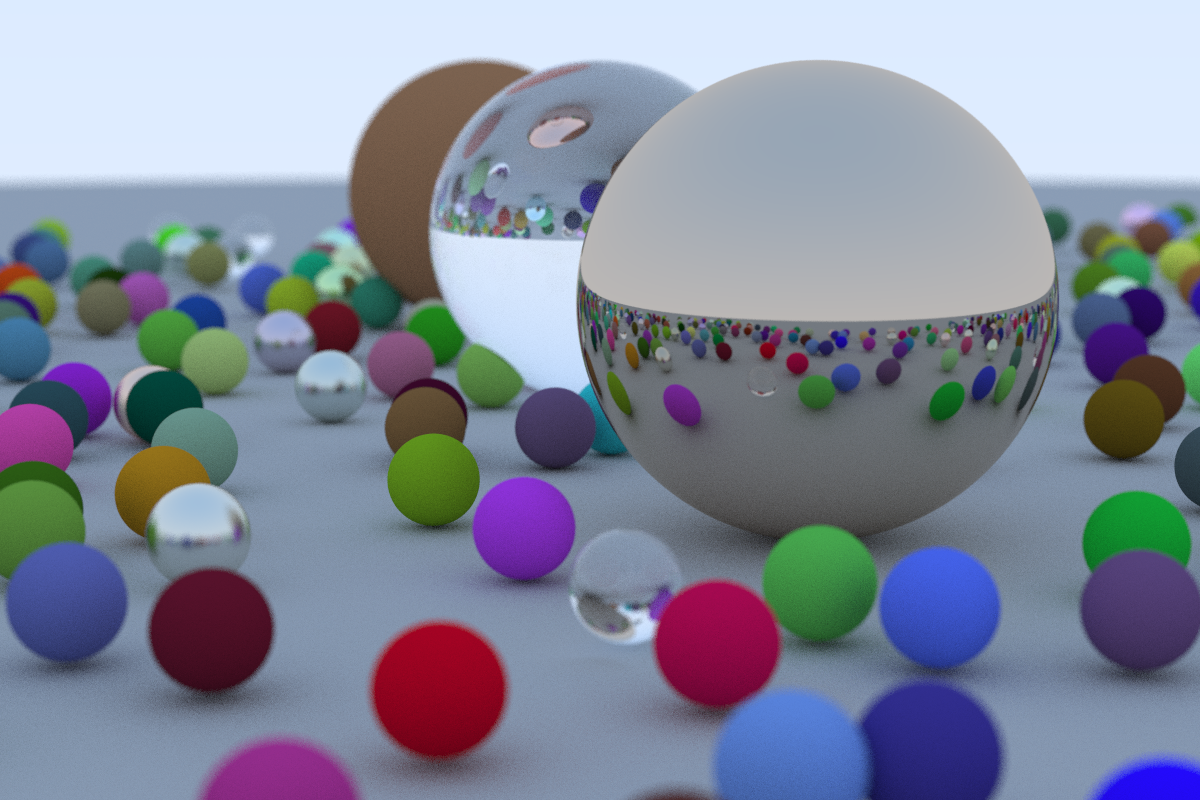
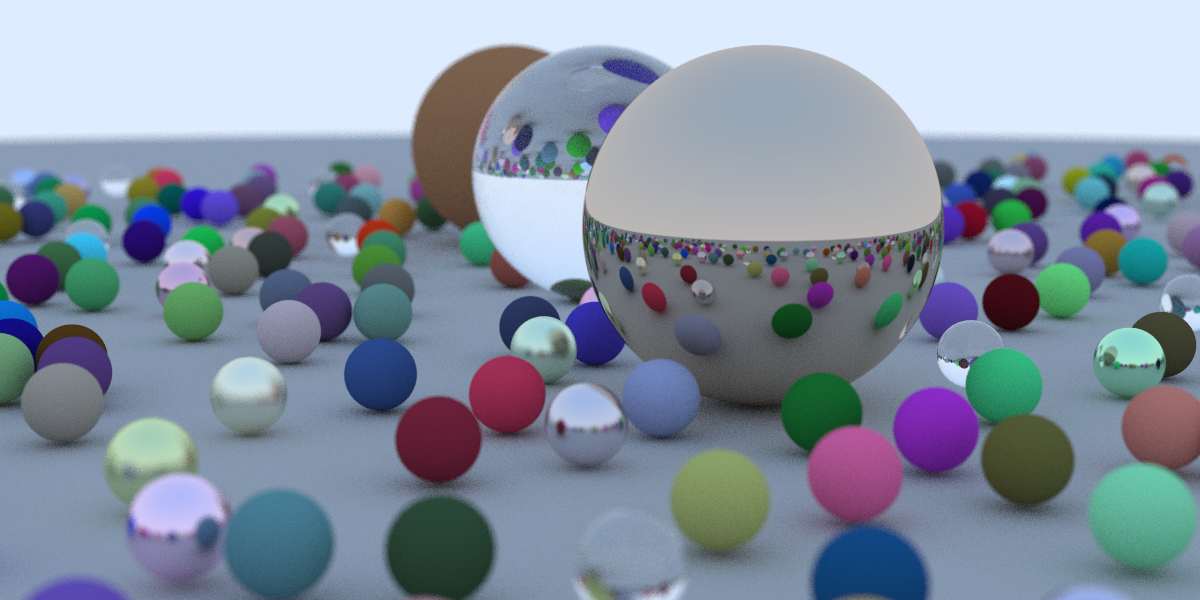
add rendered images and update readme

diff --git a/README.md b/README.md
@@ -56,14 +56,54 @@ sips -s format png image.ppm --out image.png
 
 ### Raytracing in One Weekend
 
-<img src="./images/lambertian_diffuse.png" alt="Lambertian Diffuse" height="100" 
-/> <img src="./images/metal.png" alt="Metal" height="100"
-/> <img src="./images/dielectric.png" alt="Dielectric" height="100" 
-/> <img src="./images/camera_viewpoint.png" alt="Camera Viewpoint" height="100" 
-/> <img src="./images/camera_fov.png" alt="Camera Field of View" height="100" 
-/> <img src="./images/defocus_blur.png" alt="Defocus Blur / Depth of Field" height="100" 
-/> <img src="./images/random_spheres.png" alt="Final image" height="100" />
+| Lambertian Diffuse | <img src="./images/lambertian_diffuse.png" height="100" /> |
+| Metal | <img src="./images/metal.png" height="100" /> |
+| Dielectric | <img src="./images/dielectric.png" height="100" /> |
+| Wide Angle Lens | <img src="./images/wide_angle.png" height="100" /> |
+| Telephoto Lens | <img src="./images/telephoto.png" height="100" /> |
+| Defocus Blur | <img src="./images/defocus_blur.png" height="100" /> |
+| Final Image | <img src="./images/random_spheres.png" height="100" /> |
 
 ### Raytracing The Next Week
 
-<img src="./images/motion_blur.png" alt="Motion Blur" height="100" />
+| Motion Blur | <img src="./images/motion_blur.png" height="100" /> |
+| Motion Blur w/ BVH | <img src="./images/motion_blur_bvh.png" height="100" /> |
+| Final Image w/ BVH | <img src="./images/random_spheres_bvh.png" height="100" /> |
+
+#### Timing Benchmarks
+
+Without Bounding Volume Hierarchy:
+
+```bash
+target/release/raytracing_series --scene random_spheres -w 1200 -h 600 \
+    --seed 8589869056 > random_spheres.ppm
+
+HittableList: 0.000042243 seconds
+Done: 1960.7145 seconds
+```
+
+```bash
+target/release/raytracing_series --scene motion_blur -w 1200 -h 600 \
+    --seed 8589869056 > motion_blur.ppm
+
+HittableList: 0.000036335 seconds
+Done: 2201.2559 seconds
+```
+
+With Bounding Volume Hierarchy:
+
+```bash
+target/release/raytracing_series --scene random_spheres --bvh -w 1200 -h 600 \
+    --seed 8589869056 > random_spheres_bvh.ppm
+
+BVH: 0.000402492 seconds
+Done: 824.07605 seconds
+```
+
+```bash
+target/release/raytracing_series --scene motion_blur --bvh -w 1200 -h 600 \
+    --seed 8589869056 > motion_blur_bvh.ppm
+
+BVH: 0.000610622 seconds
+Done: 913.7702 seconds
+```
